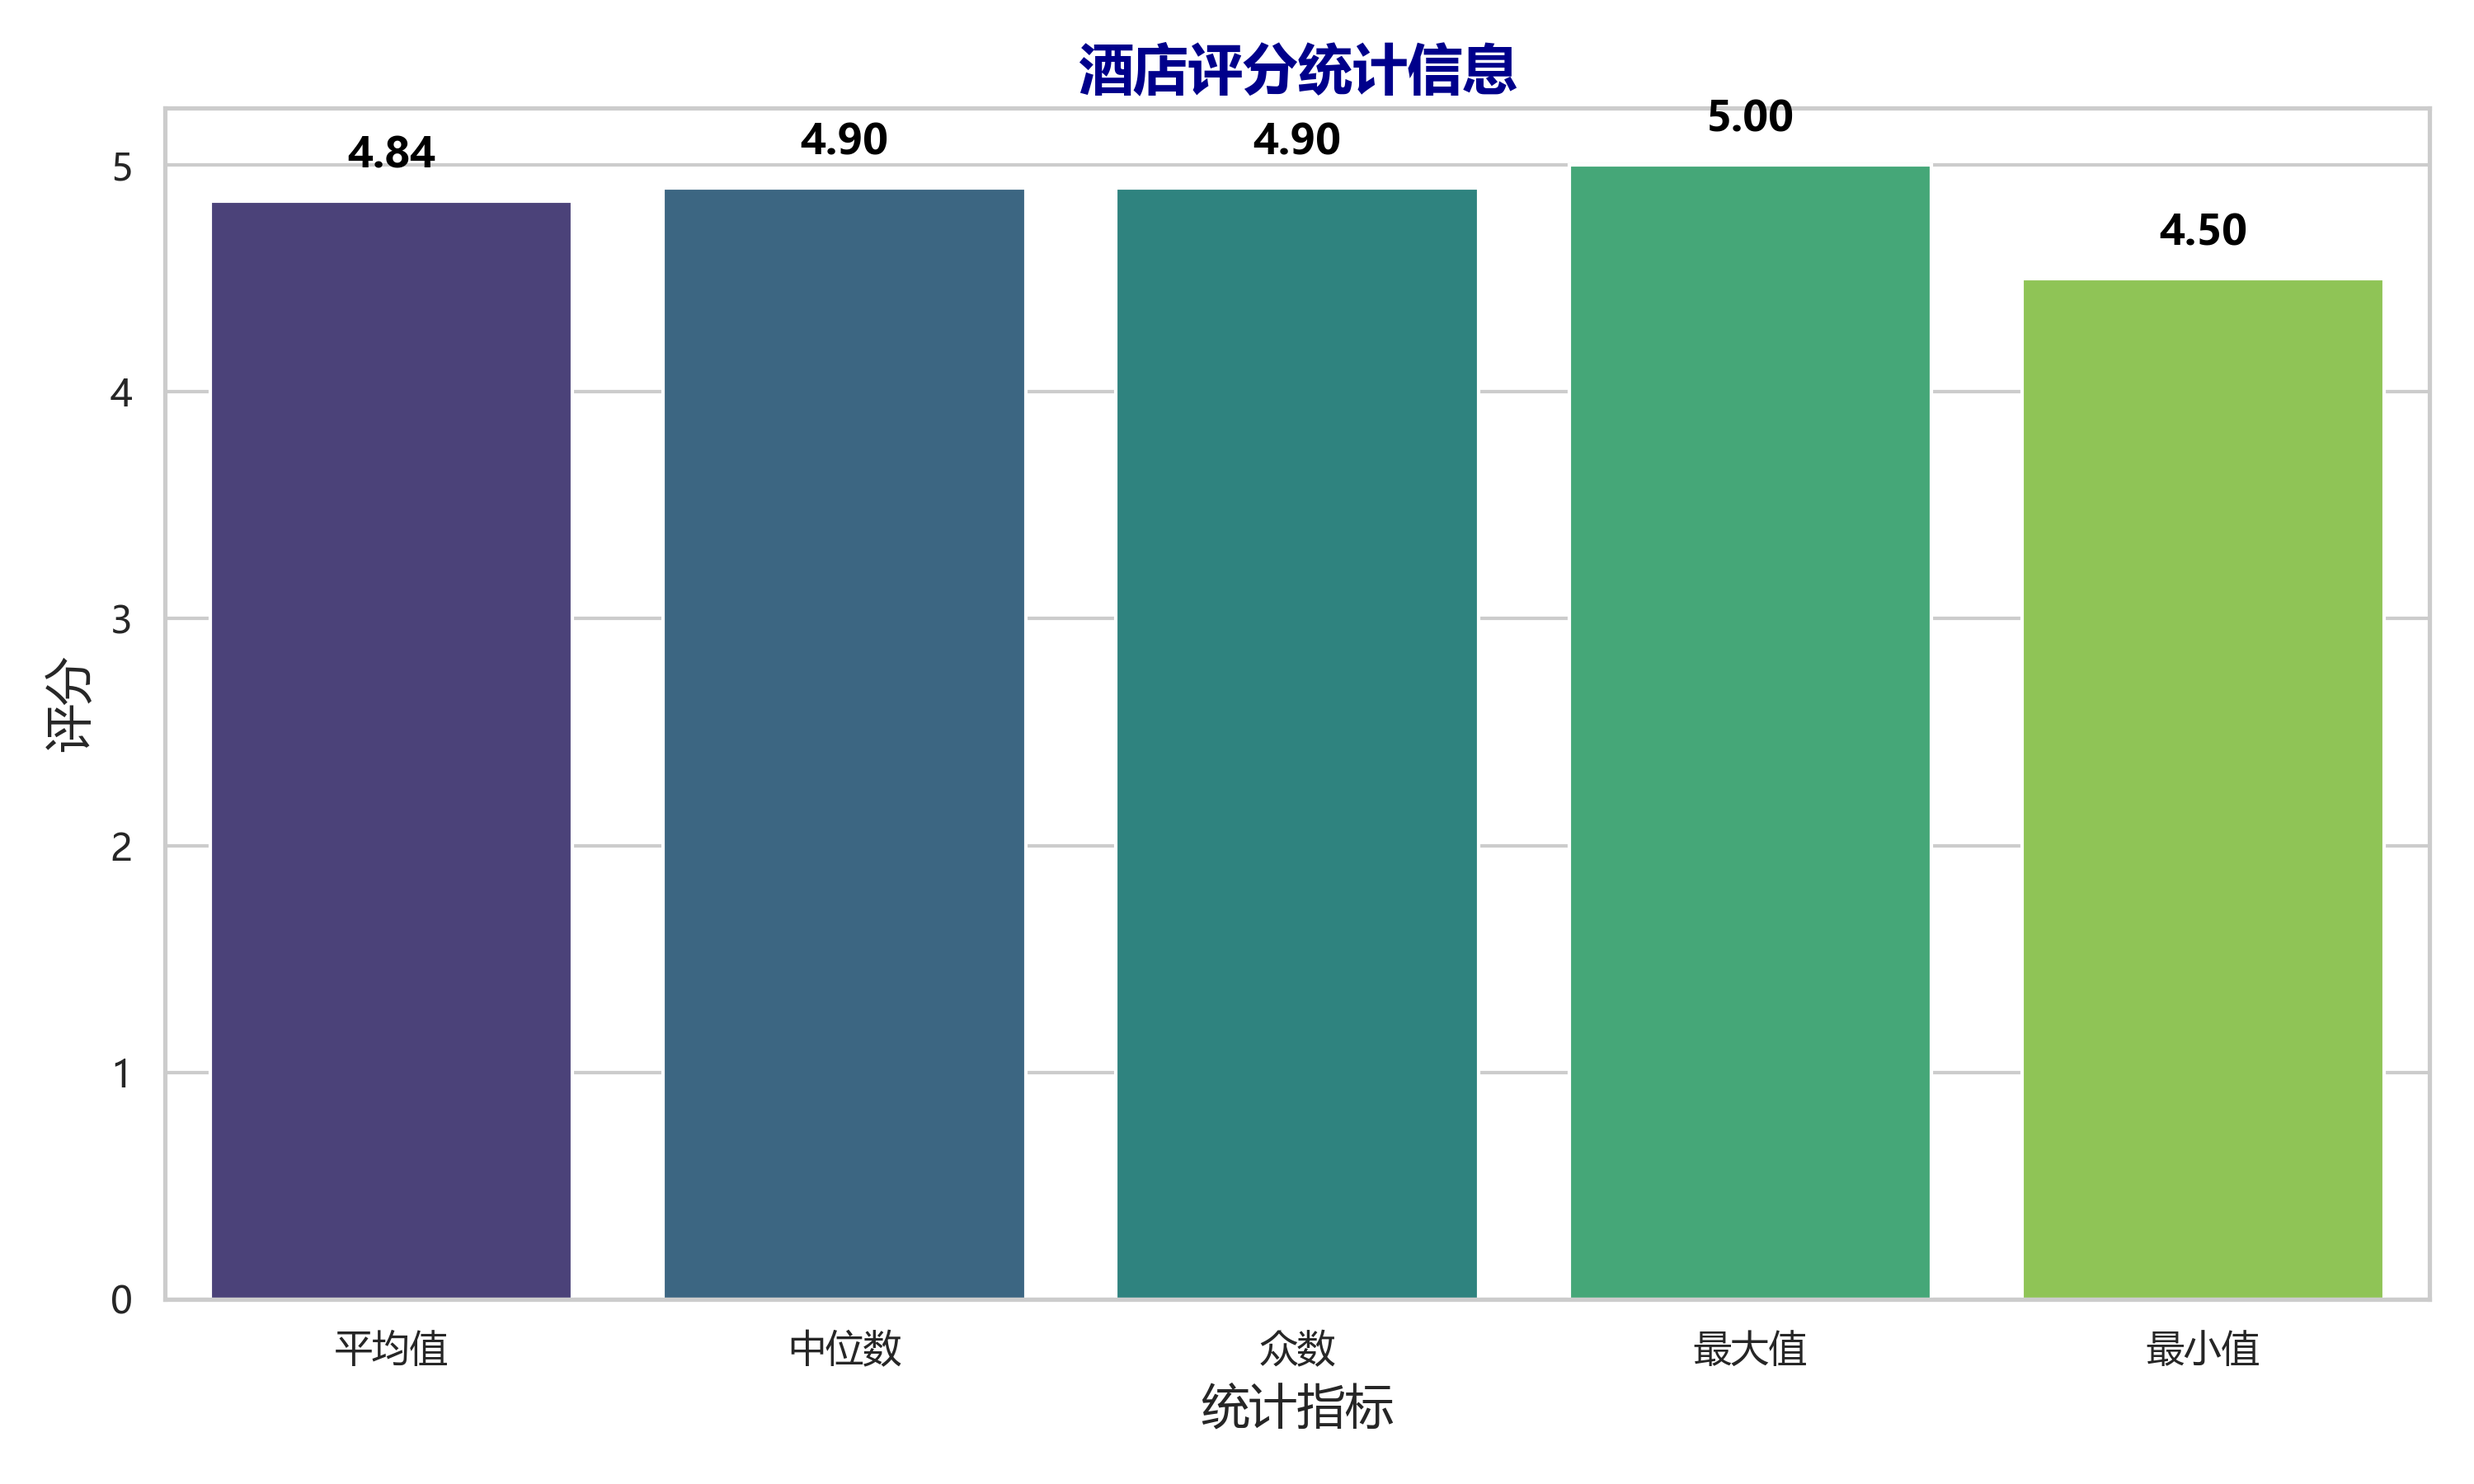
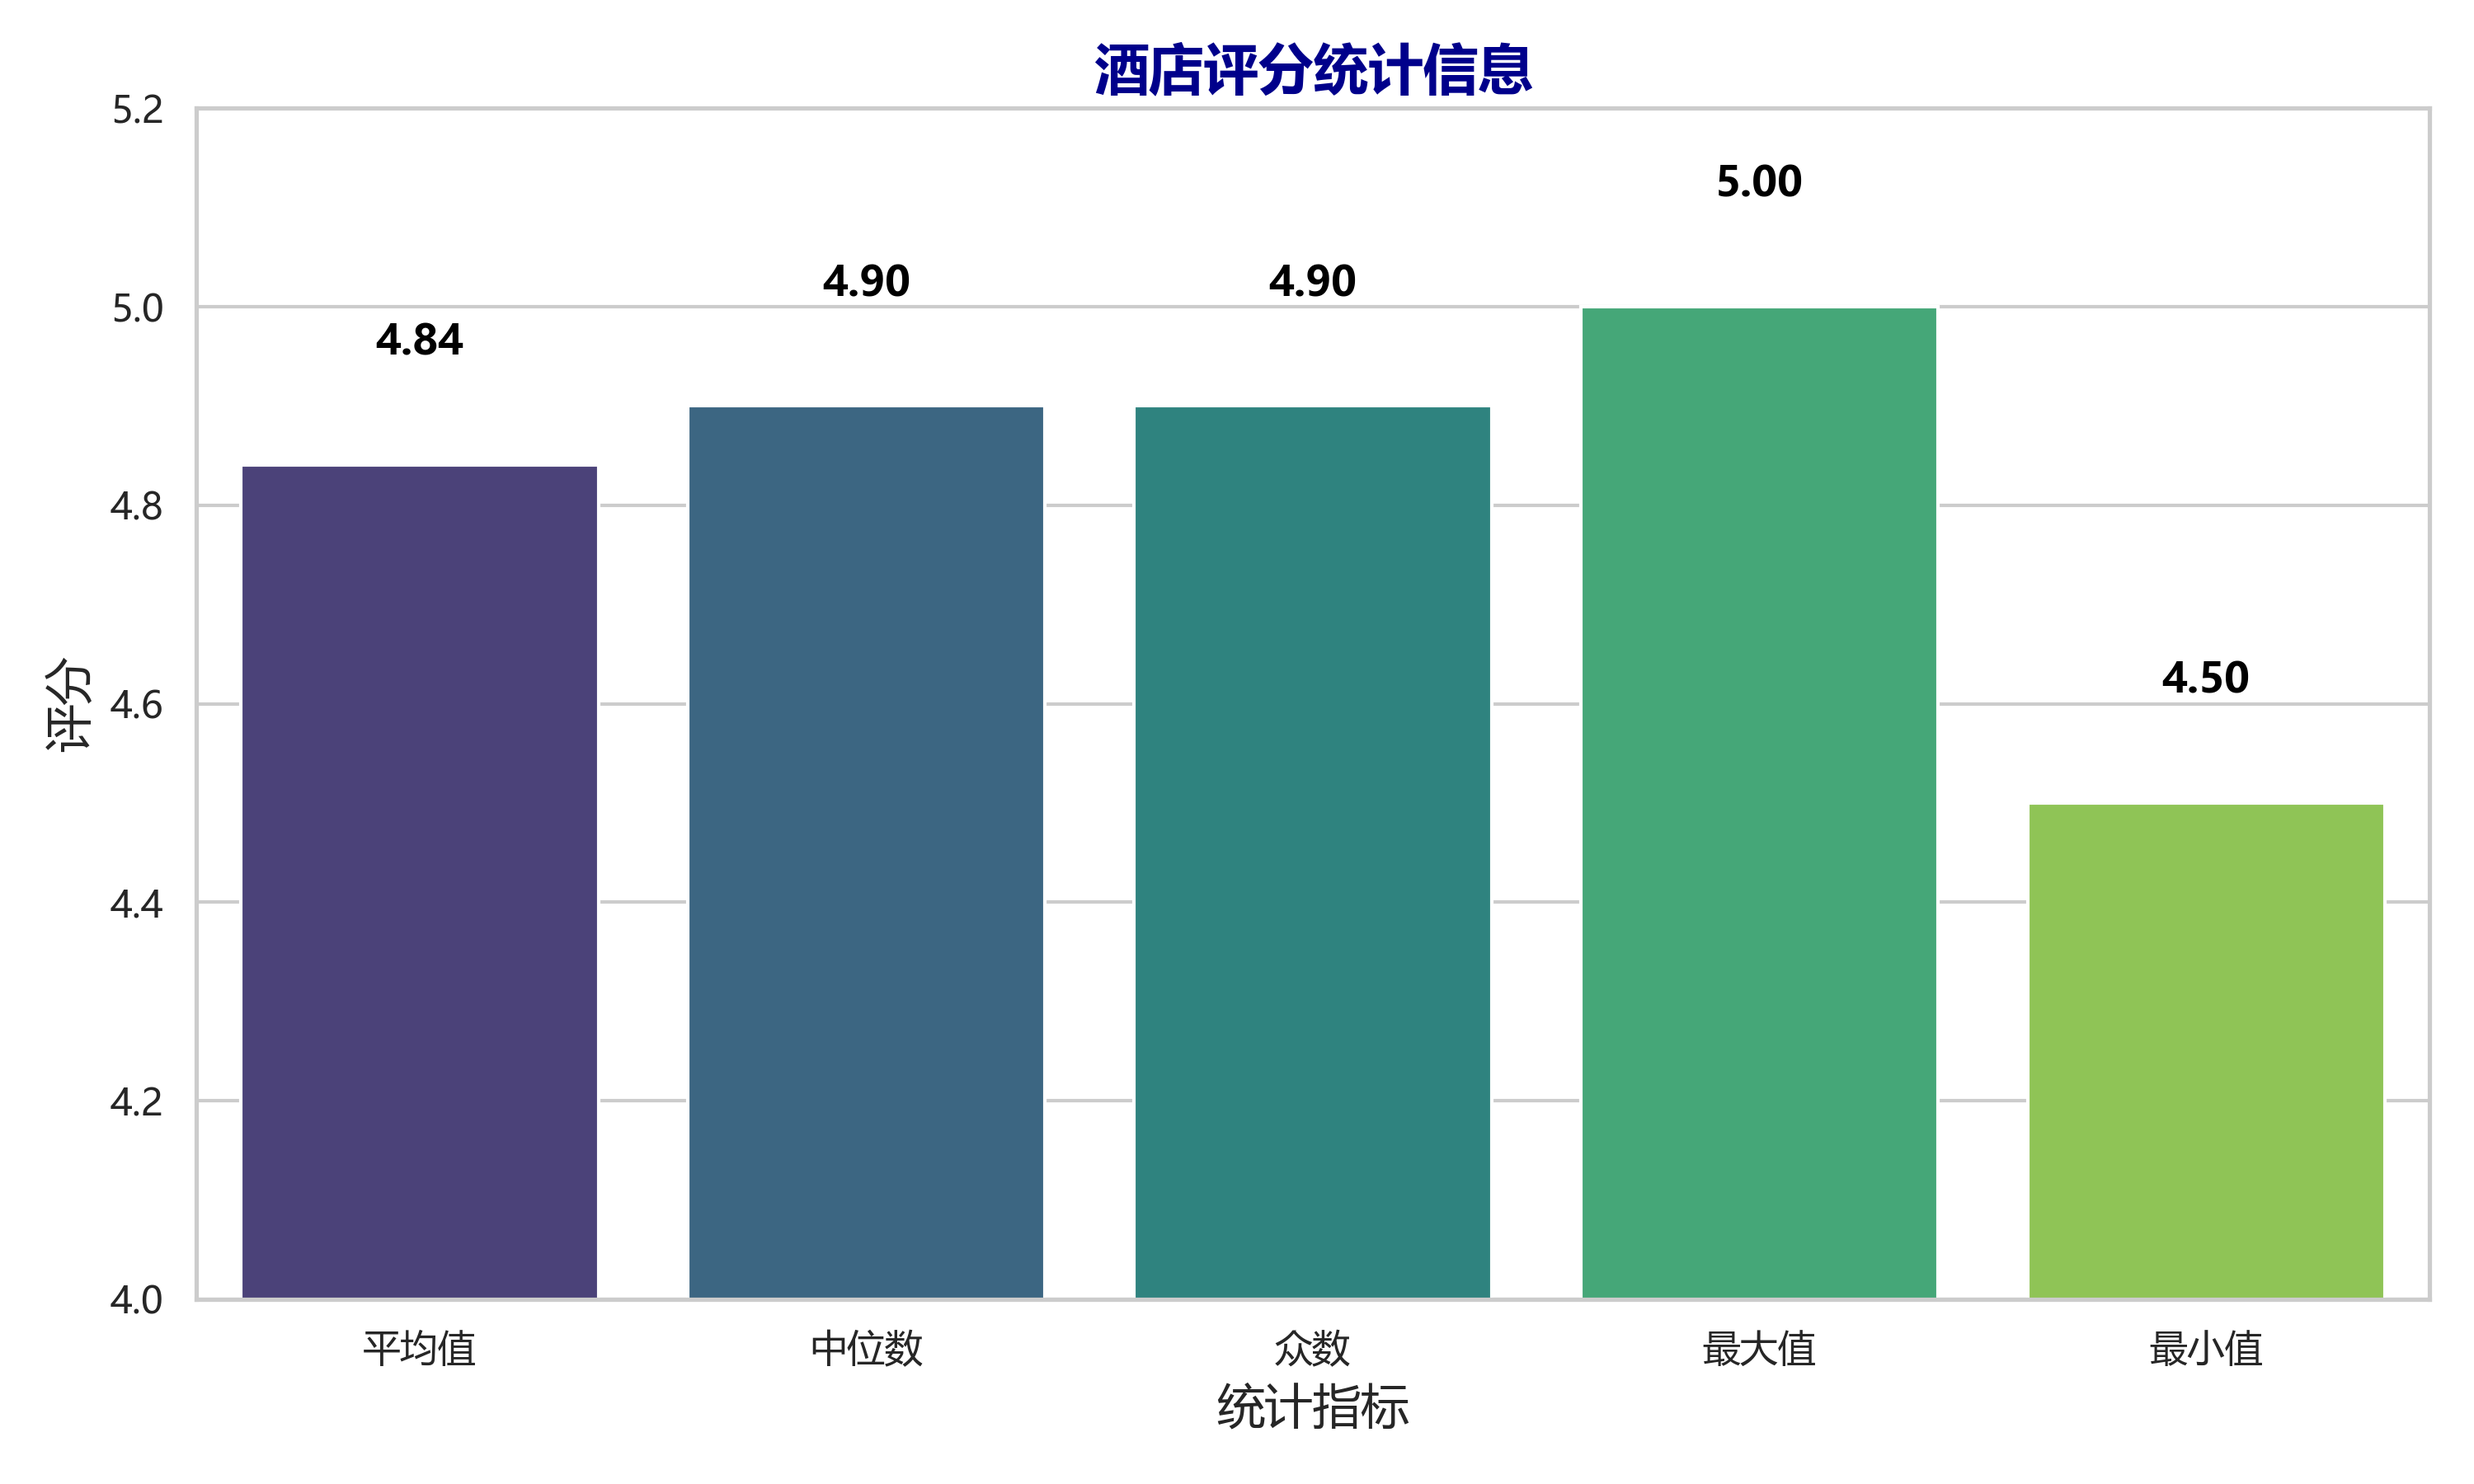
task1的新柱状图

diff --git a/task1.py b/task1.py
@@ -1,9 +1,11 @@
+from os.path import curdir
+
 import pandas as pd
 import seaborn as sns
 import matplotlib.pyplot as plt
 from pymongo import MongoClient
 
-from task3 import hotels_data
+
 
 
 def plot_hotel_scores(hotels_data):
@@ -71,6 +73,7 @@ def plot_hotel_scores(hotels_data):
     plt.title('酒店评分统计信息', fontsize=16, weight='bold', color='darkblue', fontname='Microsoft YaHei')
     plt.ylabel('评分', fontsize=14)
     plt.xlabel('统计指标', fontsize=14)
+    plt.ylim(4, 5.2)
     plt.tight_layout()
 
     # 保存第二张图片
@@ -83,6 +86,14 @@ def plot_hotel_scores(hotels_data):
 client = MongoClient('mongodb://localhost:27017/')
 db = client['hotel_database']
 collection = db['hotelwithrooms']
-hotels_data = list(collection.find({},{"hotel_score":1,"hotel_city_name":1,"room_price_range":1}))
+cursor = collection.find({},{"hotel_score":1})
+hotels_data = list(cursor)
+cursor.close()
+
+
+# cursor = collection.find({},{"hotel_score":1,"hotel_city_name":1,"room_price_range":1})
+# hotels_data = list(cursor)
+# cursor.close()
+
 
 plot_hotel_scores(hotels_data)
